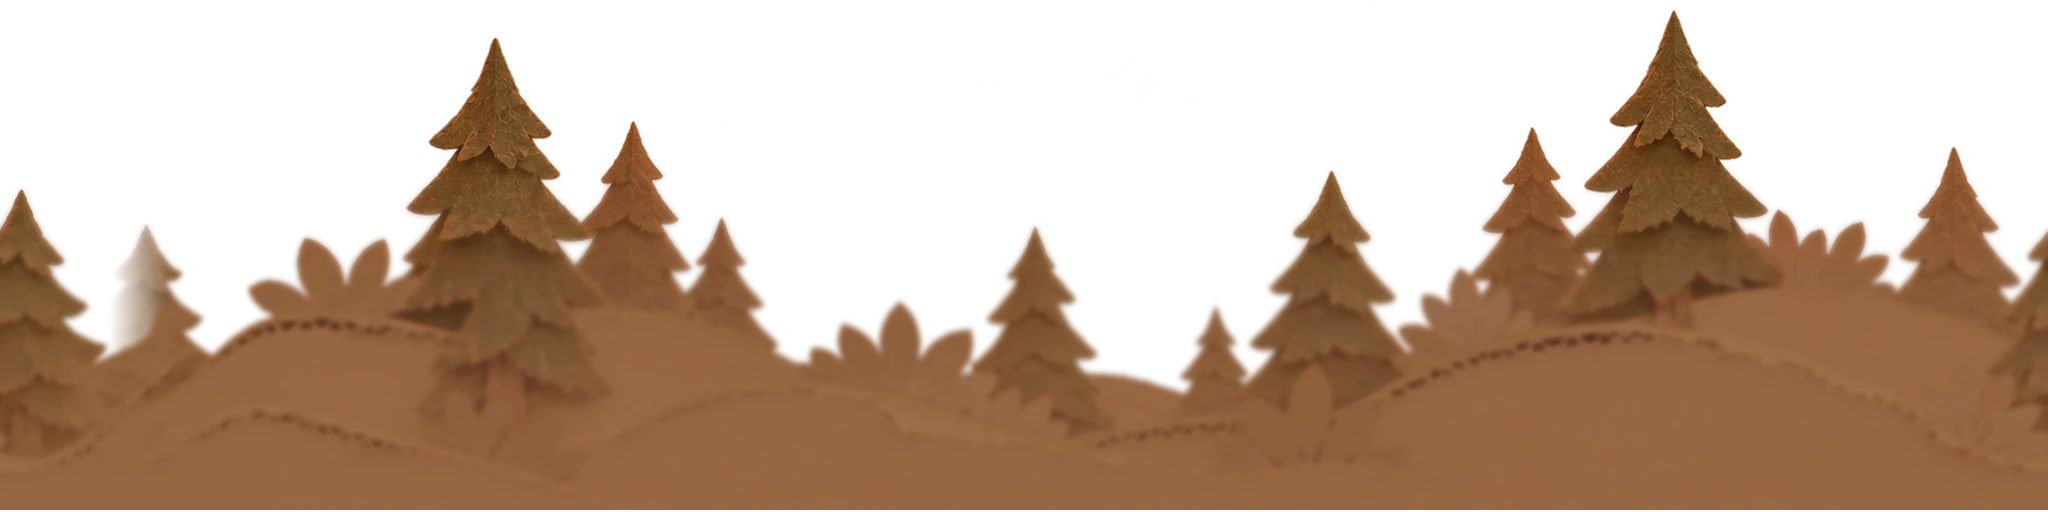
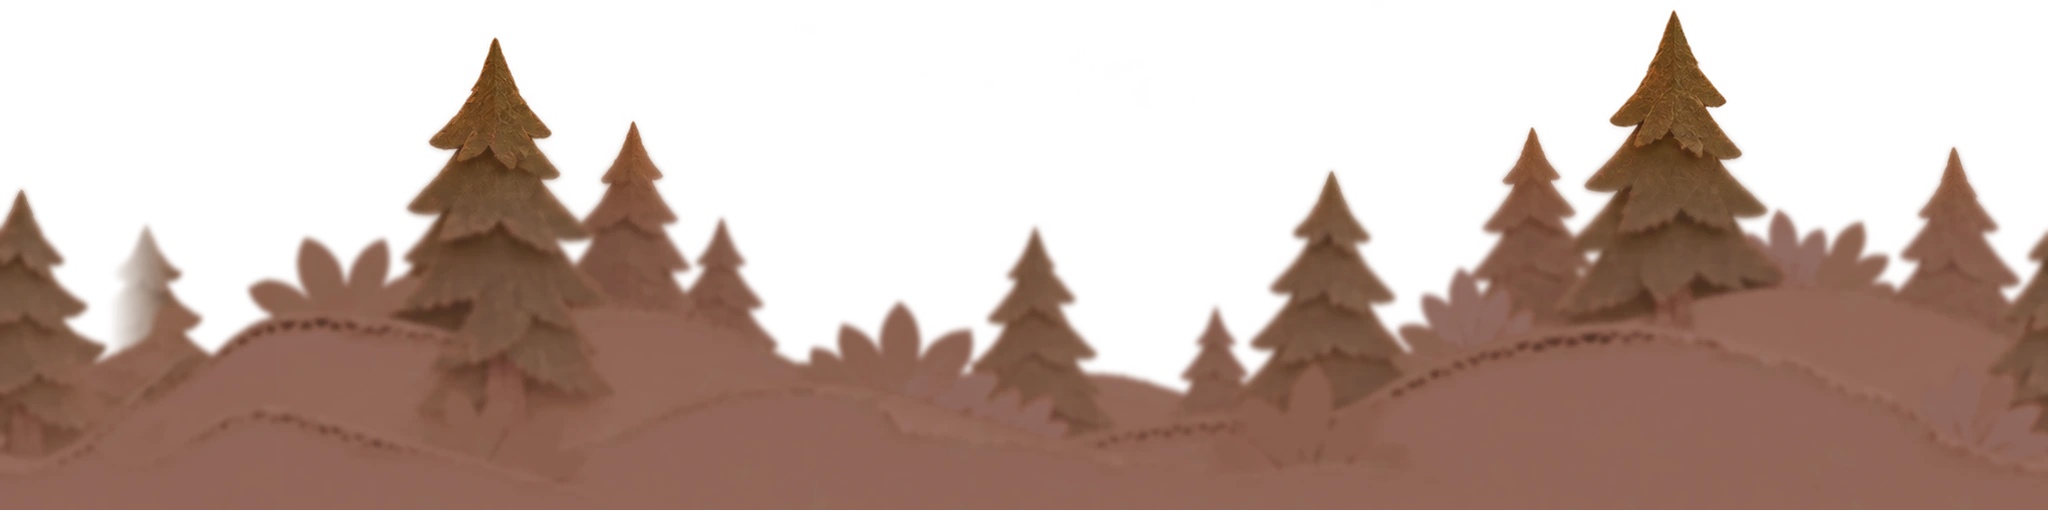
Capas, últimos pisos: sin hojas, avión ni pájaros jugando nivel 1; sin pasto ni piedras de primer plano con capas; cerros y franja de Moki más fríos

diff --git a/src/art/atardecer.js b/src/art/atardecer.js
@@ -54,6 +54,10 @@ export const TARDE = {
   piezasTorn: 0.2, // las losas de cartón del suelo se leían como obstáculo o bache: quedan como mancha del propio kraft
   piedra: { tinte: 0xd8a878, alfa: 0.2 }, // CAPAS: UNIR Y PISOS: las piedras de primer plano, 3 de 3 críticos las nombran como peligro; quedan como mancha del suelo
   cartel: false, // el cartel de lección en su poste (fondo vivo, no mecánica): 2 de 3 leen el poste como obstáculo y tapa el aire donde se decide el salto
+  // CAPAS: ÚLTIMOS PISOS, fondo vivo que los críticos nombran como peligro. Nada de esto toca azar de juego: ni un Math.random menos.
+  hojas: false, // hojas que caen: 2 de 3 a 375 y 3 de 3 a 1280; en true regresan
+  vuelan: false, // avión y pájaros en la zona alta del salto ("avión de papel", "triángulos"), solo jugando; el título los conserva
+  primerPlano: 0, // alfa de pasto y piedras de primer plano con el fondo pintado: las "manchas oscuras en el camino" a 1280
   // Ficha: la de siempre es kraft y se pierde contra el suelo #CD9468; oscura se leía como anillo de peligro. Cara dorada de la luz del sol (ningún color
   // claro llega a 3.0 contra el suelo) y filo oscuro, que es el que da el contraste contra el suelo y contra el cielo.
   ficha: { cara: '#FFD56B', filo: mix(PAL.accent, PAL.ink, 0.82), canto: mix(PAL.accent, PAL.ink, 0.92), marca: mix('#FFD56B', PAL.accent, 0.55) },
@@ -467,12 +471,14 @@ export function montar(s) {
     const pz = lerp(0xffffff, pintadas && pintadas.activa ? TARDE.piezasOscuras : TARDE.piezas, amb.st); // las piezas nacen sin tinte: se les pone cada cuadro
     const aTorn = pintadas && pintadas.activa ? 0 : 1 - amb.st * (1 - TARDE.piezasTorn); // con fondo pintado, la losa rasgada se leía como rectángulo
     const pzPiedra = lerp(0xffffff, TARDE.piedra.tinte, amb.st);
-    const aPiedra = 1 - amb.st * (1 - TARDE.piedra.alfa);
+    const conCapas = pintadas && pintadas.activa;
+    const aPiedra = conCapas ? TARDE.primerPlano : 1 - amb.st * (1 - TARDE.piedra.alfa);
     s.fg.forEach((f) => {
       const k = f.sprite.texture.key;
       if (k.startsWith('gp-')) f.sprite.setTint(pz);
       if (k.startsWith('gp-torn')) f.sprite.setAlpha(aTorn);
       if (k.startsWith('gp-stone')) f.sprite.setTint(pzPiedra).setAlpha(aPiedra);
+      if (conCapas && k.startsWith('gp-grass')) f.sprite.setAlpha(TARDE.primerPlano);
     });
   };
   s.events.on('postupdate', colocar);
@@ -492,6 +498,7 @@ export function montar(s) {
   const puede = amb.can;
   amb.can = function (kind, tramo) {
     if (kind === 'sign' && !TARDE.cartel && amb.n1) return false;
+    if ((kind === 'plane' || kind === 'birds') && !TARDE.vuelan && amb.n1 && !s.demo) return false;
     return puede.call(this, kind, tramo);
   };
   const veloVisible = s.midVeil.visible;
@@ -529,7 +536,7 @@ export function montar(s) {
       s.fg.forEach((f) => {
         if (!f.sprite.texture.key.startsWith('gp-')) return;
         f.sprite.clearTint(); // colocar ya no corre con st = 0
-        if (f.sprite.texture.key.startsWith('gp-torn') || f.sprite.texture.key.startsWith('gp-stone')) f.sprite.setAlpha(1);
+        if (f.speed !== 1) f.sprite.setAlpha(1); // a las de 1x, stepForeground les pone su alfa cada cuadro
       });
       s.ridge.setVisible(capasV.ridge);
       s.far.setVisible(true);
@@ -559,5 +566,5 @@ export function montar(s) {
   calienta([hornoBanda, () => hornoCapa('ridge'), () => hornoCapa('far'), () => hornoCapa('mid')]);
   montarBoceto(s, o, colocar, TARDE.sol.r);
   if (TARDE.bokeh) montarBokeh(s);
-  montarHojas(s);
+  if (TARDE.hojas) montarHojas(s);
 }
